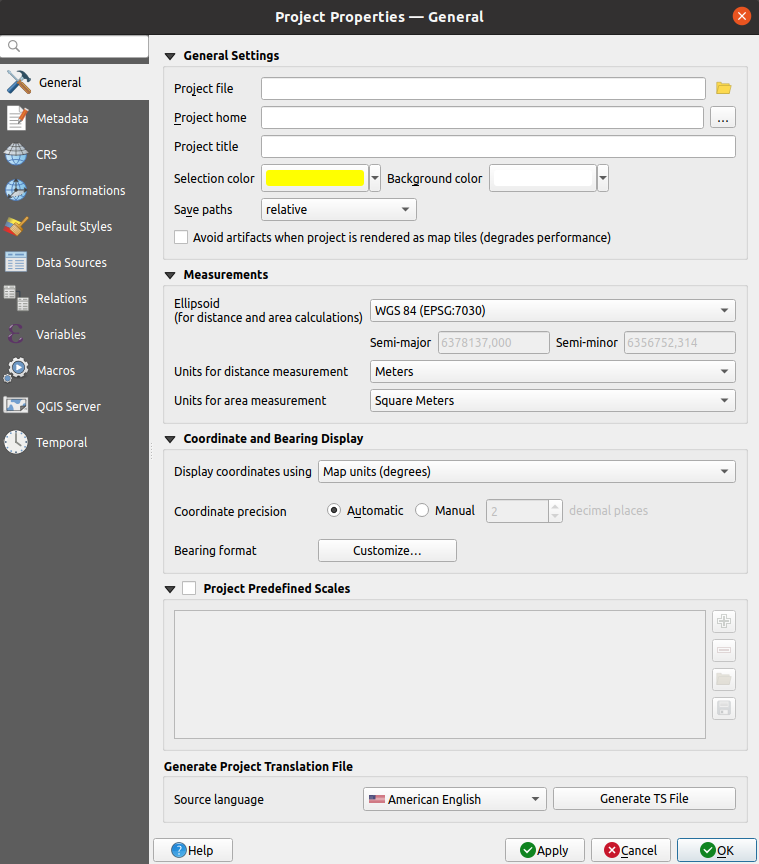
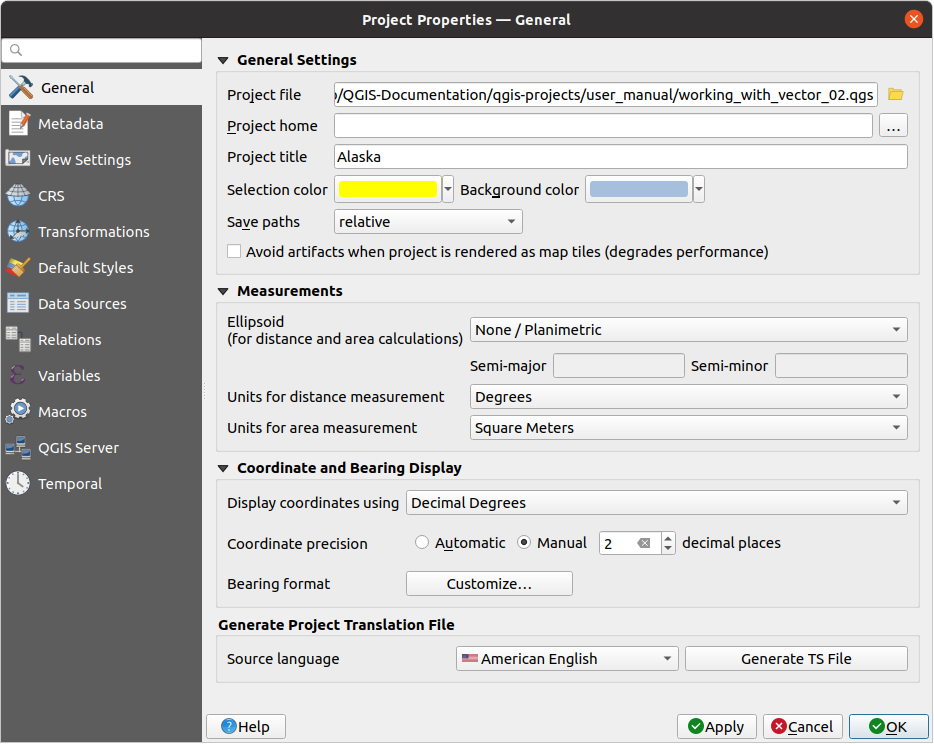
Introduce the Project view settings

diff --git a/docs/user_manual/introduction/qgis_configuration.rst b/docs/user_manual/introduction/qgis_configuration.rst
@@ -582,7 +582,8 @@ This tab offers some options regarding the behavior of the :ref:`Identify tool <
 
 **Predefined scales**
 
-Here, you find a list of predefined scales. With the |signPlus|
+Here, you find a list of predefined scales to display in the status
+bar :guilabel:`Scale` drop-down widget, for quick zoom. With the |signPlus|
 and |signMinus| buttons you can add or remove your personal scales.
 You can also import or export scales from/to a ``.XML`` file. Note that you
 still have the possibility to remove your changes and reset to the predefined
@@ -1263,12 +1264,10 @@ frame lets you control these parameters. You can indeed choose:
   * Identify tool derived length, perimeter and area values
   * Default unit shown in measure dialog
 
-The :guilabel:`Coordinate and Bearing display` allows you to choose and customize the bearing format and the format of units
+The :guilabel:`Coordinate and Bearing display` allows you to choose and
+customize the bearing format and the format of units
 to use to display the mouse coordinate in the status bar and the derived coordinates
 shown via the identify tool.
-
-Finally, you can set a :guilabel:`Project predefined scales` list, which overrides
-the global predefined scales.
 
 .. _figure_general_tab:
 
@@ -1288,6 +1287,32 @@ categories, keywords, contact details, links, history. There is also a
 validation functionality that checks if specific fields were filled, anyway
 this is not enforced. See :ref:`vector layer metadata properties
 <vectormetadatamenu>` for some details.
+
+View Settings
+--------------
+
+.. _figure_viewsettings_tab:
+
+.. figure:: img/project_viewsettings.png
+   :align: center
+
+   View Settings tab of the Project Properties dialog
+
+The |overlay| :guilabel:`View Settings` tab provides means to control
+the project map canvas. You can:
+
+* set :guilabel:`Project predefined scales`: the list of scales to display in
+  the status bar :guilabel:`Scale` drop-down widget. This overrides
+  the global predefined scales.
+
+.. _project_full_extent:
+
+* :guilabel:`Set Project full Extent`: this extent will be used instead of the
+  extent of all layers when zooming to full map extent (|zoomFullExtent|).
+  It's useful when a project contains web layers/national layers/global layers
+  yet the actual area of interest for the project is a smaller geographic area.
+  The project full extent coordinates can be derived from an existing layer,
+  based on the current map canvas extent or defined by the user.
 
 CRS Properties
 --------------
@@ -1979,6 +2004,8 @@ in the QGIS user profile.
    :width: 1em
 .. |osx| image:: /static/common/osx.png
    :width: 1em
+.. |overlay| image:: /static/common/overlay.png
+   :width: 1.5em
 .. |processing| image:: /static/common/processingAlgorithm.png
    :width: 1.5em
 .. |radioButtonOff| image:: /static/common/radiobuttonoff.png
@@ -2011,3 +2038,5 @@ in the QGIS user profile.
    :width: 1.3em
 .. |win| image:: /static/common/win.png
    :width: 1em
+.. |zoomFullExtent| image:: /static/common/mActionZoomFullExtent.png
+   :width: 1.5em

diff --git a/docs/user_manual/introduction/general_tools.rst b/docs/user_manual/introduction/general_tools.rst
@@ -824,7 +824,8 @@ menu and the layers' contextual menu in the :guilabel:`Layers` panel.
      - |checkbox|
    * - |zoomFullExtent|
      - Zoom Full
-     - Zoom to the extent of all the layers in the project.
+     - Zoom to the extent of all the layers in the project
+       or to the :ref:`project full extent <project_full_extent>`.
      - |checkbox|
      - |checkbox|
      -
